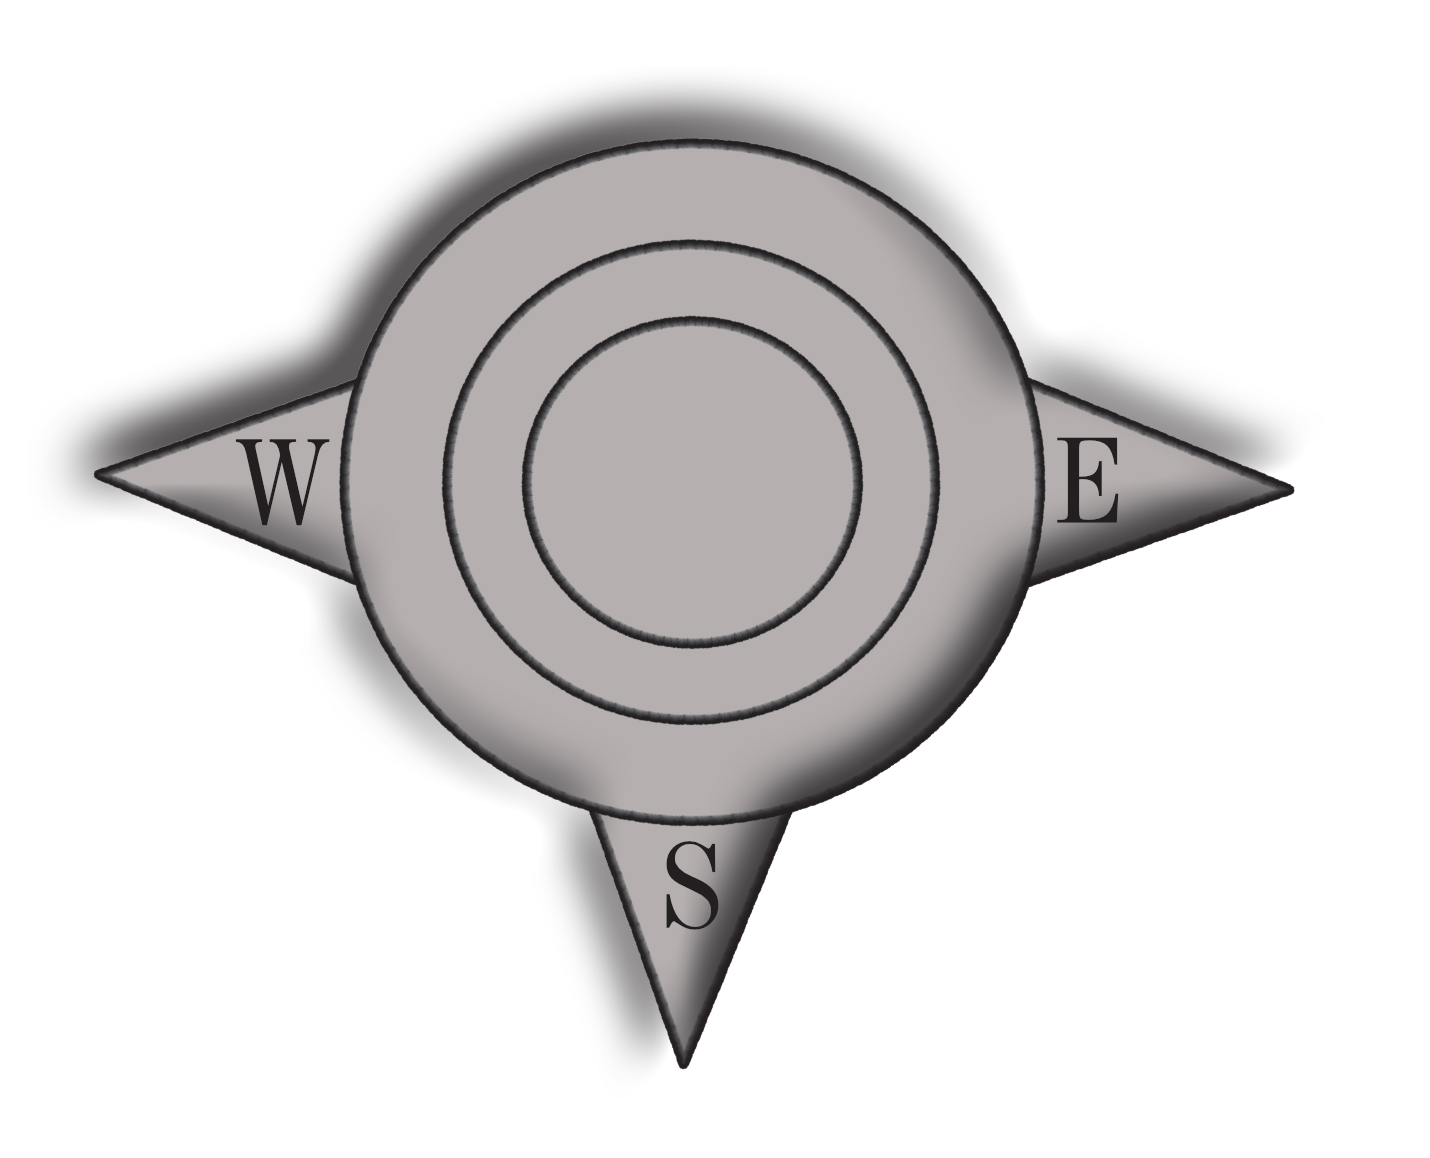
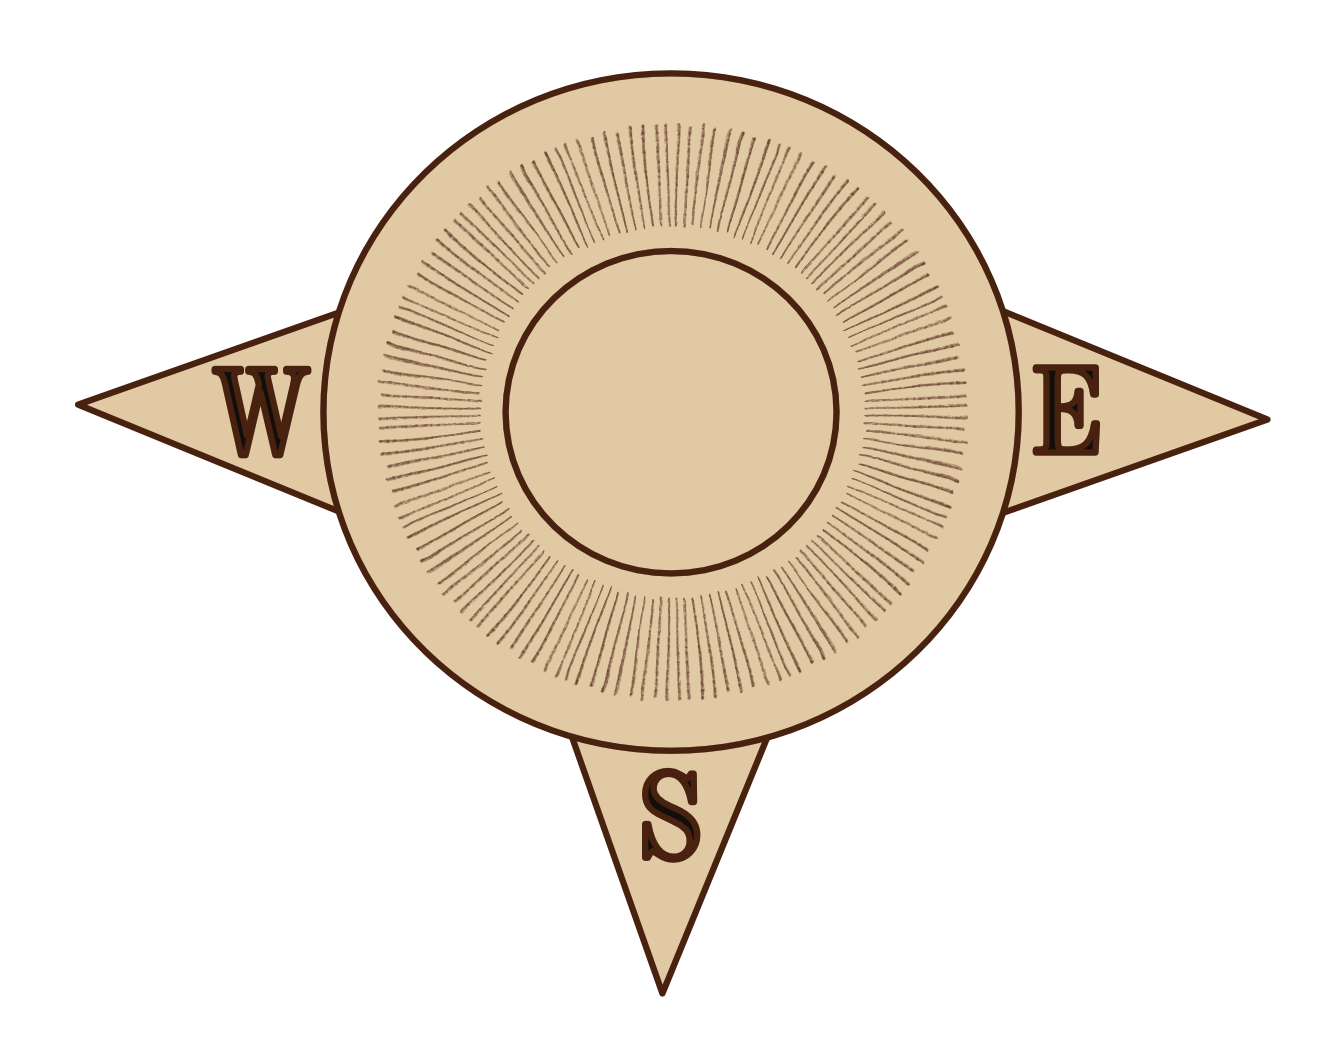
Initial commit 12-15-2024

diff --git a/src/component/compas/page.js b/src/component/compas/page.js
@@ -9,11 +9,15 @@ import imageUrl3 from "../../image/Arrow3.png";
 
 export default function Compas({}) {
     const [rotateClass, setRotateClass] = useState("");
+    const [scalleClass, setScalleClass] = useState("");
     const [compasLetterValue, setCompasLetterValue] = useState(false);
 
     useEffect(() => {
         setTimeout(() => {
             setRotateClass(styles.fullRotation);
+        }, 250);
+        setTimeout(() => {
+            setScalleClass(styles.fullScale);
         }, 250);
         setTimeout(() => {
             setCompasLetterValue(true);
@@ -23,19 +27,21 @@ export default function Compas({}) {
     return (
     <div className={styles.compas}>
         <div className={styles.compasBody}>
-            <Image
-                src={imageUrl2}
-                quality={100}
-                width={300}
-                height={240}
-                alt="Main Arrow"
-            />
+            <div className={`${styles.compasCircle} ${scalleClass}`}>
+                <Image
+                    src={imageUrl2}
+                    quality={100}
+                    width={200}
+                    height={160}
+                    alt="Compas"
+                />
+            </div>
             <div className={`${styles.compasArrow} ${rotateClass}`}>
                 <Image
-                    src={imageUrl3}
+                    src={imageUrl1}
                     quality={100}
-                    width={105}
-                    height={265}
+                    width={70}
+                    height={184}
                     alt="Main Arrow"
                 />
             </div>

diff --git a/src/component/compas/page.module.css b/src/component/compas/page.module.css
@@ -1,43 +1,37 @@
 .compas {
     position: relative;
-    width: 100%;
-    border: 1px solid red;
-    display: flex;
-    align-items: center;
-    justify-content: center;
     z-index: 1;
 }
 
 .compasBody {
     position: relative;
-    border: 1px solid red;
+}
+
+.compasCircle {
+    transform: rotate(0deg);
+    transform-origin: 101.5px 63px;
+}
+
+.fullScale {
+    animation: scalledSpin 1.5s ease-in-out;
 }
 
 .compasArrow {
     position: absolute;
-    bottom: 103px;
-    left: 90px;
+    bottom: 68px;
+    left: 66px;
     transform: rotate(0deg);
-    transform-origin:  55px 228px;
+    transform-origin: 35.5px 155px;
 }
 
 .fullRotation {
     animation: spinAndStop 1.5s ease-in-out;
 }
 
-@keyframes spinAndStop {
-    0% {
-      transform: rotate(0deg);
-    }
-    100% {
-      transform: rotate(1080deg);
-    }
-}
-
 .compasLetter {
     position: absolute;
-    bottom: 390px;
-    left: 128px;
+    bottom: 280px;
+    left: 84px;
     z-index: 10;
     width: 30px;
     height: 20px;
@@ -45,6 +39,24 @@
 
 .compasLetterSvg {
     animation: draw 1.5s ease forwards;
+}
+
+@keyframes spinAndStop {
+    0% {
+      transform: rotate(0deg);
+    }
+    100% {
+      transform: rotate(720deg);
+    }
+}
+
+@keyframes scalledSpin {
+    0% {
+        transform: rotate(0deg);
+      }
+      100% {
+        transform: rotate(-720deg);
+    }
 }
 
 @keyframes draw {

diff --git a/src/app/marauders-map/page.js b/src/app/marauders-map/page.js
@@ -5,17 +5,26 @@ import StepsCircle from '../../component/steps-circle/page';
 import Compas from "@/component/compas/page";
 import Background from "@/component/background/page";
 import Title from "@/component/title/page";
+import Station from "@/component/station/page";
+import StationFirsrt from "@/component/stationFirsrt/page";
 
 export default function Map() {
     return (
         <>
-            <Title />
+            <div className={styles.title}>
+                <Title />
+            </div>
             <Background />
-            <Steps stepsCount={5} animationDuration={10.5} />
-            <Steps stepsCount={15} animationDuration={2.5}/>
-            <Steps stepsCount={10} animationDuration={8}/>
-            <StepsCircle />
-            <Compas />
+            <div className={styles.containerMap}>
+                <StationFirsrt />
+                    <div className={styles.containerMapRoom}>
+                        <StepsCircle />
+                        <Steps stepsCount={5} animationDuration={10.5} />
+                        <Steps stepsCount={15} animationDuration={2.5}/>
+                        <Steps stepsCount={10} animationDuration={8}/>
+                    </div>
+                <Station />
+            </div>
         </>
     )
 }

diff --git a/src/component/stationFirsrt/page.js b/src/component/stationFirsrt/page.js
@@ -1,0 +1,32 @@
+"use client";
+
+import { useEffect, useState } from "react";
+import styles from "./page.module.css";
+import Image from "next/image";
+import stationUrl from "../../image/station2.png";
+import Compas from "../compas/page";
+
+export default function StationFirsrt({}) {
+
+    useEffect(() => {
+    }, []);
+
+    return (
+        <>
+            <div className={styles.container}>
+                <Image
+                    alt="Station-img"
+                    src={stationUrl}
+                    placeholder="blur"
+                    quality={100}
+                    width={600}
+                    height={800}
+                />
+                <div className={styles.compas}>
+                    <Compas />
+                </div>
+            </div>
+        </>
+
+    );
+}

diff --git a/src/component/station/page.js b/src/component/station/page.js
@@ -3,9 +3,9 @@
 import { useEffect, useState } from "react";
 import styles from "./page.module.css";
 import Image from "next/image";
-import title from "../../image/Title2.png";
+import stationUrl from "../../image/station1.png";
 
-export default function Title({}) {
+export default function Station({}) {
 
     useEffect(() => {
     }, []);
@@ -13,12 +13,12 @@ export default function Title({}) {
     return (
     <div className={styles.titleContainer}>
         <Image
-            alt="title-img"
-            src={title}
+            alt="Station-img"
+            src={stationUrl}
             placeholder="blur"
             quality={100}
-            width={400}
-            height={350}
+            width={600}
+            height={800}
         />
     </div>
     );

diff --git a/src/component/background/page.module.css b/src/component/background/page.module.css
@@ -1,9 +1,23 @@
 .background {
+    position: fixed;
+    top: 0;
+    left: 0;
+    width: 100vw;
+    height: 100vh;
+    background-image: url('../../image/background1.jpg');
+    background-repeat: no-repeat;
+    background-size: cover;
+    background-position: center;
+}
+
+.background::before {
+    content: "";
     position: absolute;
     top: 0;
     left: 0;
     width: 100%;
     height: 100%;
-    background-color: burlywood;
-    opacity: .5;
+    background-color: rgb(177 153 124 / 75%);
+    pointer-events: none;
+    z-index: 1;
 }

diff --git a/src/component/background/page.js b/src/component/background/page.js
@@ -7,18 +7,18 @@ export default function Background({}) {
 
     return (
     <div>
-        <Image
+        {/* <Image
             alt="background-img"
             src={imageUrl}
             placeholder="blur"
             quality={100}
             fill
-            sizes="100vw"
+            sizes="100vh"
             style={{
                 position: "absolute",
                 objectFit: "cover",
             }}
-        />
+        /> */}
         <div className={styles.background}></div>
     </div>
     );

diff --git a/src/app/marauders-map/page.module.css b/src/app/marauders-map/page.module.css
@@ -1,0 +1,15 @@
+.title {
+    width: 100%;
+    display: flex;
+    align-items: center;
+    justify-content: center;
+}
+
+.containerMap {
+    display: flex;
+}
+
+.containerMapRoom {
+    display: flex;
+    flex-direction: column;
+}

diff --git a/src/component/stationFirsrt/page.module.css b/src/component/stationFirsrt/page.module.css
@@ -1,0 +1,10 @@
+.container {
+    position: relative;
+    z-index: 1;
+}
+
+.compas {
+    position: absolute;
+    bottom: 30px;
+    left: 30px;
+}

diff --git a/src/component/station/page.module.css b/src/component/station/page.module.css
@@ -1,0 +1,4 @@
+.titleContainer {
+    position: relative;
+    z-index: 1;
+}
